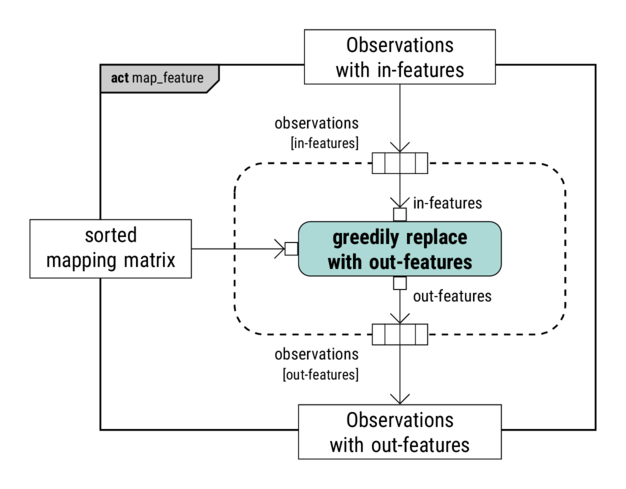
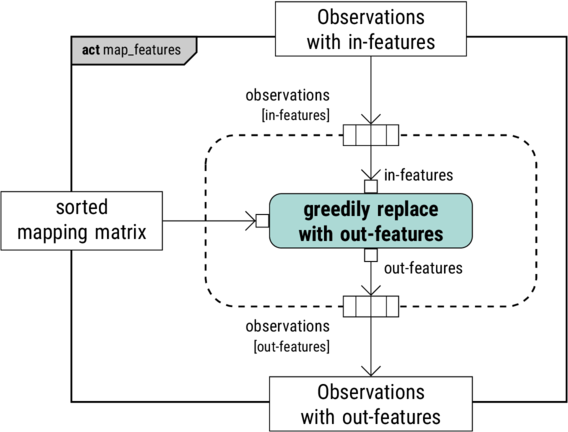
update activity diagrams

Changed region(s): [[0.0, 0.0, 1.0, 1.0]]

diff --git a/docs/feature-mapping-activity.tex b/docs/feature-mapping-activity.tex
@@ -12,10 +12,6 @@
 \usetikzlibrary{arrows,arrows.meta,positioning,shapes,mindmap,trees,backgrounds,
   fit,calc,intersections}
 
-\tikzstyle{io} = [trapezium, trapezium left angle=70, trapezium right angle=110, minimum width=3.2cm, minimum height=1cm, text centered, draw=black, fill=DivColorblindSafe0, text width=2.8cm]
-
-\tikzstyle{process} = [rectangle, minimum width=3cm, minimum height=1cm, text centered, draw=black, fill=DivColorblindSafe2!50, text width=2.8cm]
-
 \tikzstyle{inoutpar} = [rectangle, text centered, fill=white, draw=black, minimum width=2cm, minimum height=2em]
 
 % activity
@@ -23,12 +19,11 @@
 
 \tikzstyle{start} = [circle, fill=black, scale=1.5]
 
-
 \tikzstyle{comment} = [rectangle, dotted, minimum width=4cm, minimum height=1cm, text centered, draw=black, fill=gray!30, text width=3.8cm, scale=0.8]
 
 \tikzstyle{decision} = [diamond, minimum width=3cm, minimum height=1cm, text centered, draw=black, fill=green!30]
 
-% \def\myarrow{{Latex[scale=1.5]}}
+
 \def\myarrow{{Straight Barb[scale=2]}}
 \tikzstyle{arrow} = [-\myarrow]
 \pgfarrowsdeclaredouble{<}{>}{Straight Barb[scale=2]}{}
@@ -129,7 +124,7 @@
     }{
       ($(current bounding box.south east)+(5mm, 5mm)$)
     }{
-      \textbf{act} map\_feature
+      \textbf{act} map\_features
     },
     % show background grid, show background rectangle,
     act/.append style/={text width=32mm},
@@ -193,9 +188,9 @@
 
 \begin{tikzpicture}[
     node distance = 8mm,
-    mybackground2={($(current bounding box.north west)+(10mm, -5mm)$)}%
-    {($(current bounding box.south east)+(0, 5mm)$)}%
-    {\textbf{act} map\_feature\_smin},
+    mybackground2={($(current bounding box.north west)+(12mm, -5mm)$)}%
+    {($(current bounding box.south east)+(-5mm, 5mm)$)}%
+    {\textbf{act} map\_features\_smin},
     % show background grid, show background rectangle,
     act/.append style/={text width=32mm},
     inoutpar/.append style/={text width=32mm},
@@ -204,22 +199,29 @@
   % ANCHOR : INPUT: X0
   \node [inoutpar] (in-obs) {Observations with in-features};
 
-  % diags split
-  \node [decision, below=of in-obs] (diags split) {};
-  \draw [->] (in-obs) -- (diags split);
+  % in-obs split
+  \node [decision, below=of in-obs] (in-obs split) {};
+  \draw [->] (in-obs) -- (in-obs split);
+
+  % mm-split 2
+  \node [decision, below=of in-obs, xshift=-6mm] (mm split 2) {};
 
   % (map) assign out-featurs to obs
-  \node [act, below=8mm of diags split] (map) {
+  \node [act, below=8mm of in-obs split, xshift=-3mm] (map) {
     map\_feature
   };
-  \draw [->b] (diags split) -- (map.north)
-  node [above right, pinlbl, text width=2cm] {
-    observations with in-features
+  \draw [->b] (in-obs split) -- ($(map.north)+(3mm,0)$)
+  node [above right, pinlbl, text width=25mm] {
+    obs. w/in-features
+  };
+  \draw [->b] (mm split 2) -- ($(map.north)-(3mm,0)$)
+  node [above left, pinlbl, text width=2cm, align=right] {
+    sorted mapping matrix
   };
 
   % decide if done
   \node [decision, below=15mm of map] (decide) {};
-  \draw [b->] (map) -- (decide);
+  \draw [b->] (map.south) node [lbl, below left]{obs. w/out-features} -- (decide);
 
   \node [act, left=of map, text width=50mm] (update) {
     remove first weakly supported out-feature from mapping matrix
@@ -227,12 +229,12 @@
   \draw [->b] (decide) node [lbl, above left, text width=40mm, align=right] {
     [$\exists$ weakly supported out-feature (i.e., with support < s\textsubscript{min})]
   } -| (update);
-  \node [decision] (mm split) at (update |- diags split) {};
+  \node [decision] (mm split) at (update |- in-obs split) {};
   \draw [b->] (update) -- (mm split);
-  \draw [->] (mm split) -- (diags split);
+  \draw [->] (mm split) -- (mm split 2);
 
   \node [inoutpar, below=of decide] (out-obs) {Observations with out-features};
-  \draw [->] (decide) node [lbl, below right, text width=35mm] {
+  \draw [->] (decide) node [lbl, below right, text width=15mm] {
     [otherwise]
   } -- (out-obs);
 
